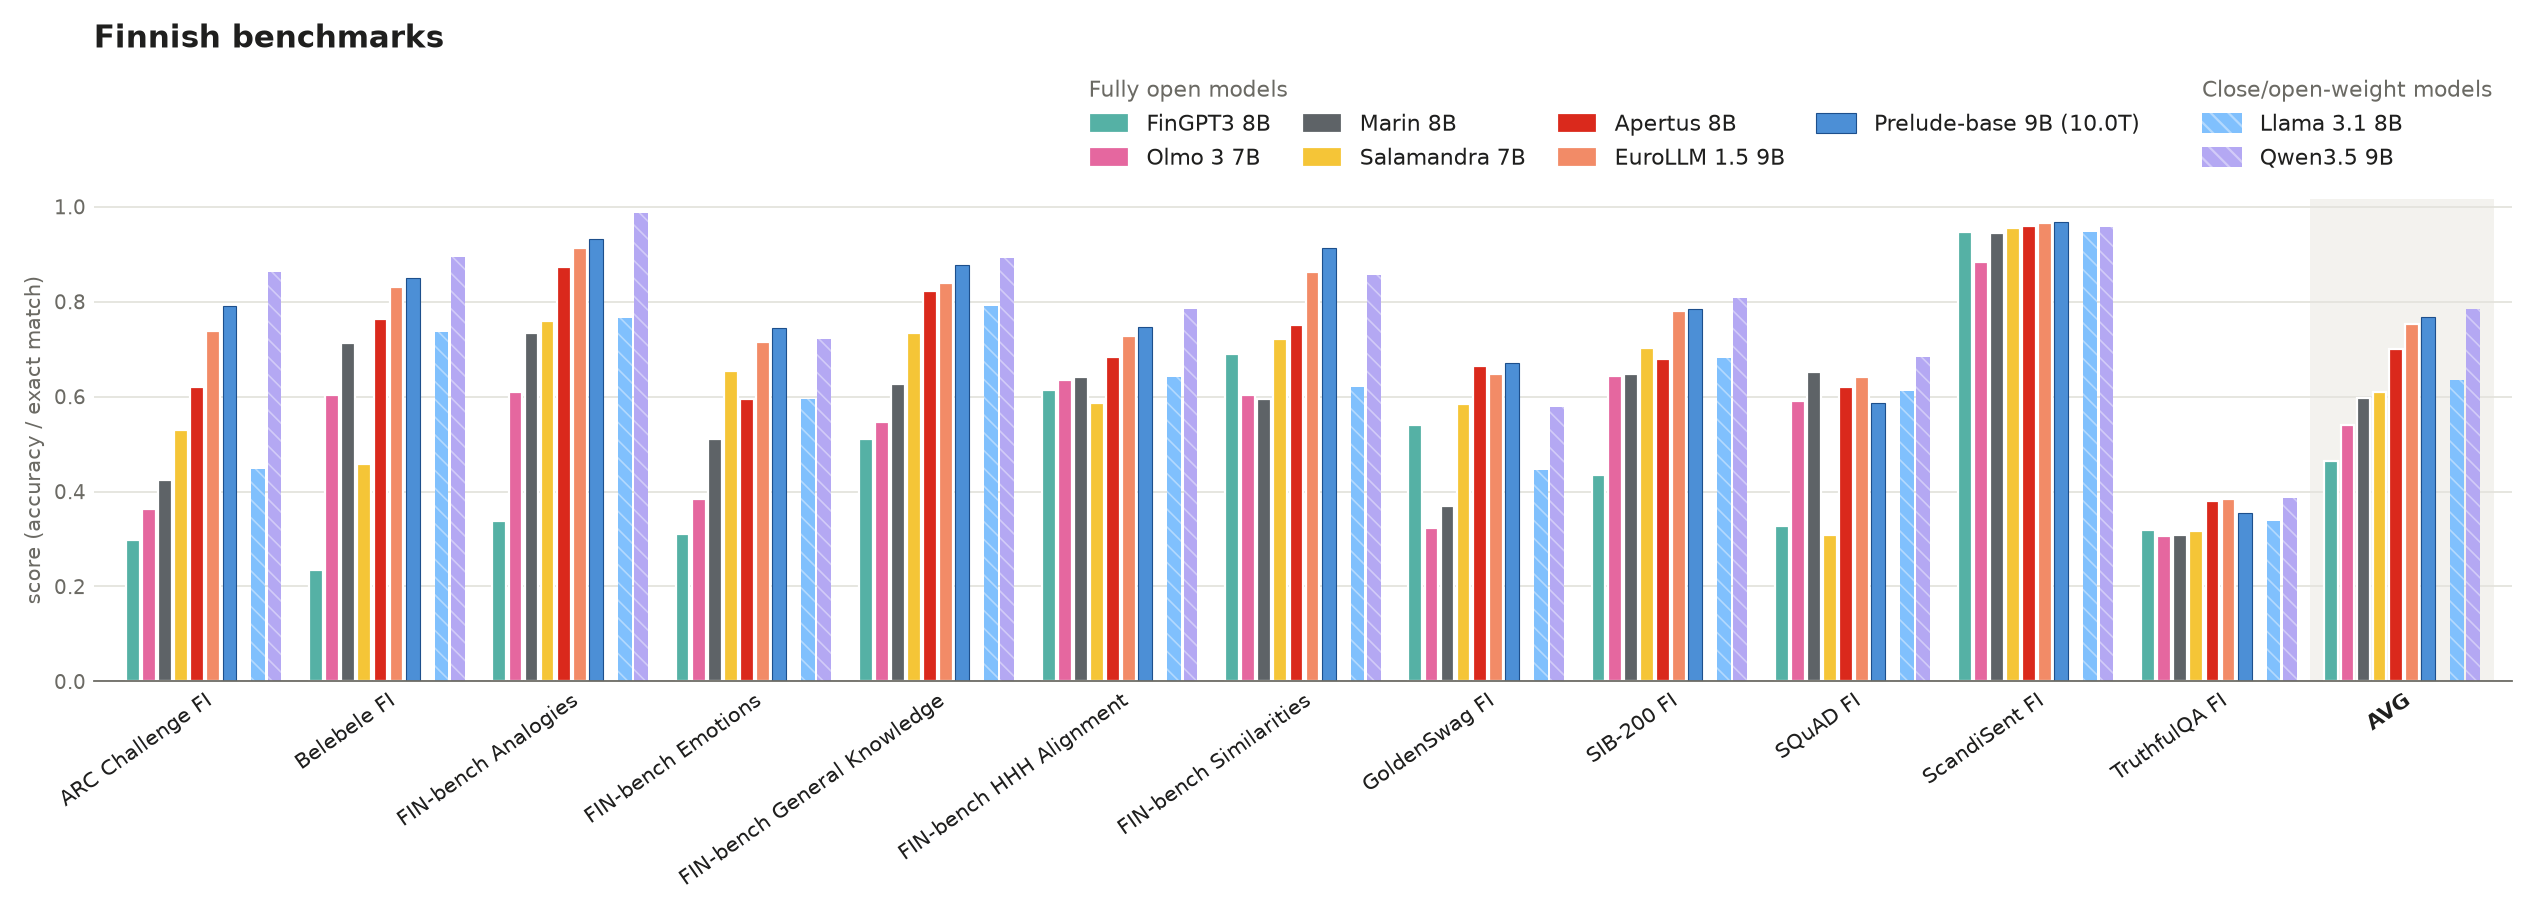
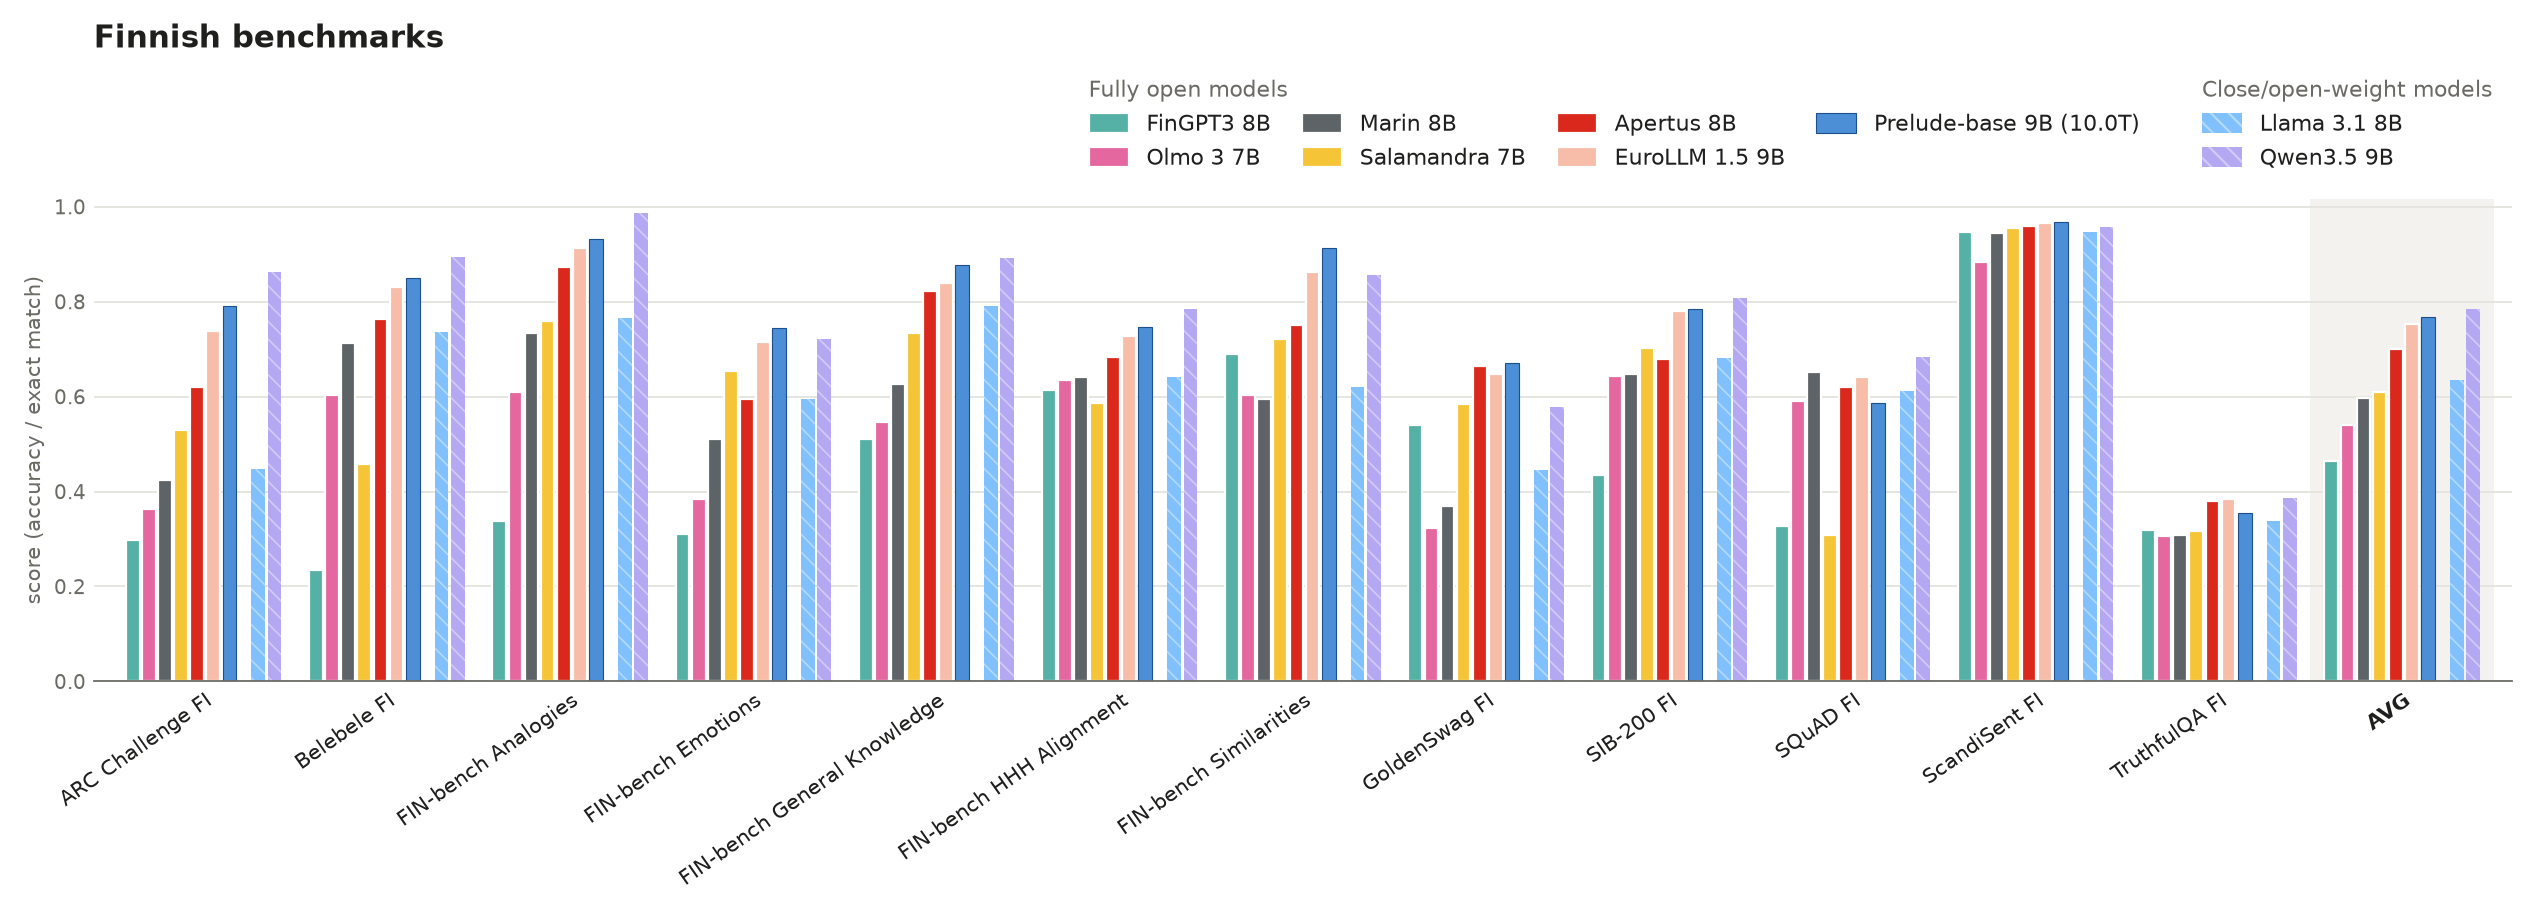
update with eurollm-1.5

diff --git a/prelude-evaluations-model-card/plot_results.py b/prelude-evaluations-model-card/plot_results.py
@@ -181,6 +181,7 @@ TRANSLATION_METRICS = ["chrf", "chrf++", "bleu"]   # side panel, not in AVG
 ENG_DEU_MODELS = {
     "prelude_anneal2t": "Prelude 9B + 2T anneal",
     "eurollm_9B_2512": "EuroLLM 9B 2512",
+    "eurollm_1.5_9B": "EuroLLM 1.5 9B",
     "apertus_8b": "Apertus 8B",
     "olmo_3_1025_7b": "Olmo 3 7B",
     "marin_8b": "Marin 8B",
@@ -268,8 +269,8 @@ STYLES = {   # name -> (colour, style)
     "Marin 8B": (lighten("#192026", 0.3), OPEN),    # Marin logo blue-gray
     # EuroLLM is Apache 2.0; counted as open (data not released)
     "EuroLLM 9B": (lighten("#ec5926", 0.3), OPEN),    # Utter logo orange
-    "EuroLLM 1.5 9B": (lighten("#ec5926", 0.3), OPEN),
     "EuroLLM 9B 2512": (lighten("#ec5926", 0.3), OPEN),
+    "EuroLLM 1.5 9B": (lighten("#ec5926", 0.6), OPEN),   # lighter: shown next to 2512
     "Qwen3 8B": (lighten("#6950e8"), WEIGHTS),    # Qwen logo color
     "Qwen3.5 9B": (lighten("#6950e8"), WEIGHTS),    # Qwen logo color
     "Llama 3.1 8B": (lighten("#0081fb"), WEIGHTS),    # Meta logo blue

diff --git a/prelude-evaluations-model-card/README.md b/prelude-evaluations-model-card/README.md
@@ -31,7 +31,7 @@ model repo in one commit, which needs an HF token with write access
 
 # Results
 
-Automatically generated by `plot_results.py` on 2026-11-16; do not edit below this line.
+Automatically generated by `plot_results.py` on 2026-11-17; do not edit below this line.
 
 ## English (decontaminated only)
 
@@ -43,6 +43,7 @@ Automatically generated by `plot_results.py` on 2026-11-16; do not edit below th
 | EuroLLM 9B 2512 (4.0T) | 0.29 | 0.72 | 0.62 | 0.61 | 0.48 | 0.64 | 0.07 | 0.12 | 0.73 | 0.77 | 0.50 |
 | Apertus 8B (15.0T) | 0.29 | 0.76 | 0.69 | 0.68 | 0.54 | 0.74 | 0.31 | 0.13 | 0.78 | 0.85 | 0.58 |
 | Marin 8B | 0.27 | **0.79** | 0.71 | 0.71 | 0.59 | 0.77 | 0.44 | 0.24 | 0.81 | 0.86 | 0.62 |
+| EuroLLM 1.5 9B | 0.30 | 0.76 | 0.72 | 0.72 | 0.61 | 0.77 | 0.47 | 0.31 | 0.79 | 0.87 | 0.63 |
 | Olmo 3 7B (6.1T) | 0.28 | 0.73 | 0.69 | 0.69 | 0.60 | 0.75 | 0.58 | 0.39 | 0.78 | 0.86 | 0.63 |
 | Prelude-base 9B (10.0T) | 0.33 | 0.77 | 0.75 | 0.73 | 0.66 | 0.80 | 0.63 | 0.43 | 0.82 | 0.90 | 0.68 |
 | ***Close/open-weight models*** | | | | | | | | | | | |
@@ -76,6 +77,7 @@ Automatically generated by `plot_results.py` on 2026-11-16; do not edit below th
 | EuroLLM 9B 2512 (4.0T) | 0.40 | 0.38 | 0.32 | **0.96** | 0.69 | 0.76 | 0.27 | 0.49 | 0.26 | 0.52 | 0.45 | 0.46 | 0.09 | 0.91 | 0.81 | 0.52 |
 | Marin 8B | 0.46 | 0.42 | 0.38 | 0.91 | 0.66 | 0.62 | 0.27 | 0.49 | 0.29 | 0.51 | 0.48 | 0.50 | 0.12 | 0.89 | 0.78 | 0.52 |
 | Apertus 8B (15.0T) | 0.46 | 0.42 | **0.44** | **0.96** | 0.74 | 0.80 | 0.27 | 0.56 | 0.32 | 0.59 | 0.50 | 0.57 | 0.08 | 0.94 | 0.87 | 0.57 |
+| EuroLLM 1.5 9B | 0.53 | 0.46 | 0.38 | **0.96** | 0.80 | 0.79 | 0.29 | 0.56 | 0.38 | 0.60 | 0.57 | 0.61 | 0.18 | 0.95 | 0.90 | 0.60 |
 | Prelude-base 9B (10.0T) | 0.57 | 0.48 | 0.36 | **0.96** | 0.79 | **0.81** | 0.30 | 0.59 | 0.41 | 0.64 | 0.62 | 0.67 | 0.21 | 0.96 | 0.93 | 0.62 |
 | ***Close/open-weight models*** | | | | | | | | | | | | | | | | |
 | Llama 3.1 8B (15.0T) | 0.45 | 0.42 | 0.41 | 0.95 | 0.68 | 0.73 | 0.26 | 0.49 | 0.31 | 0.55 | 0.48 | 0.54 | 0.10 | 0.91 | 0.80 | 0.54 |
